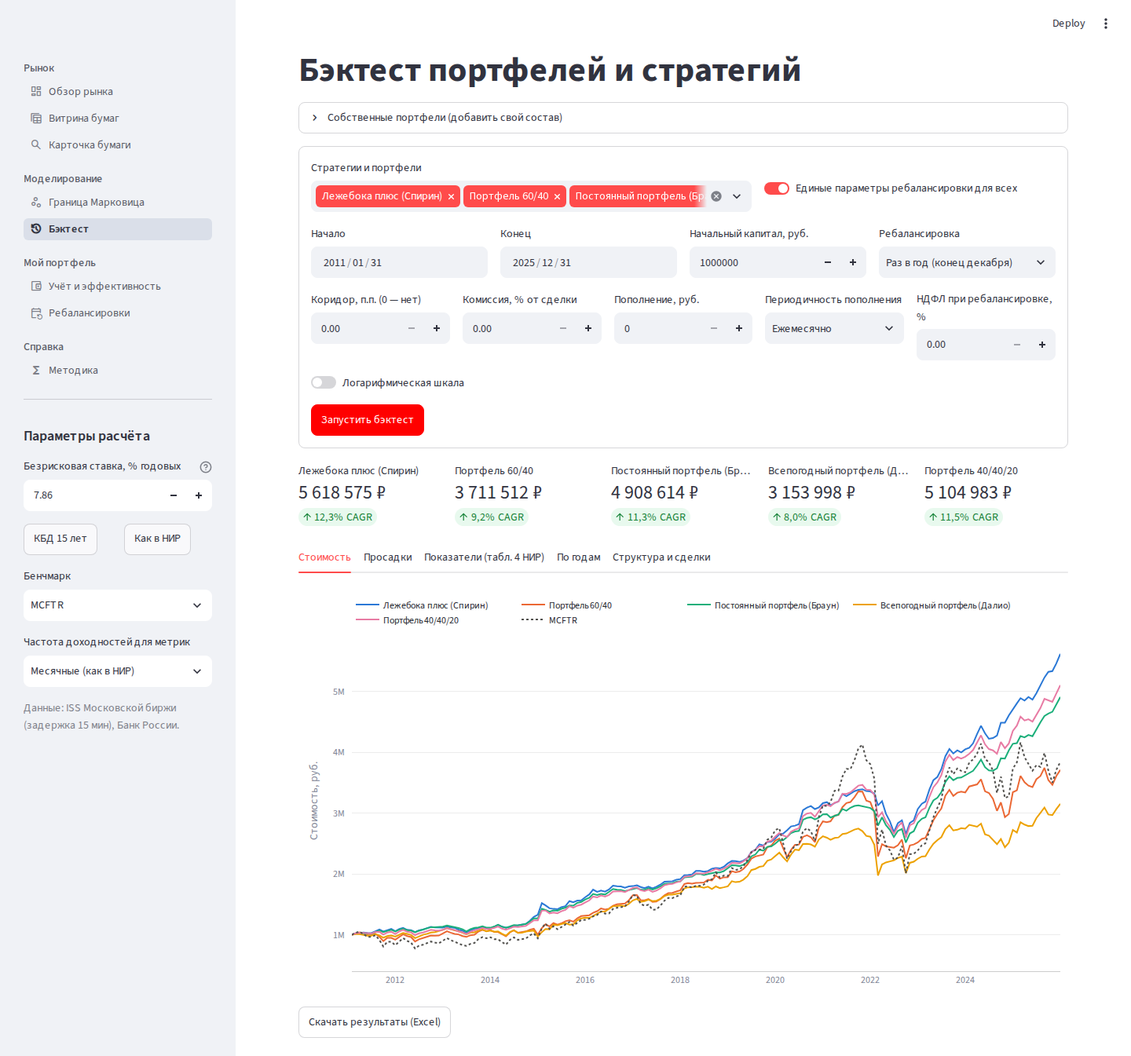
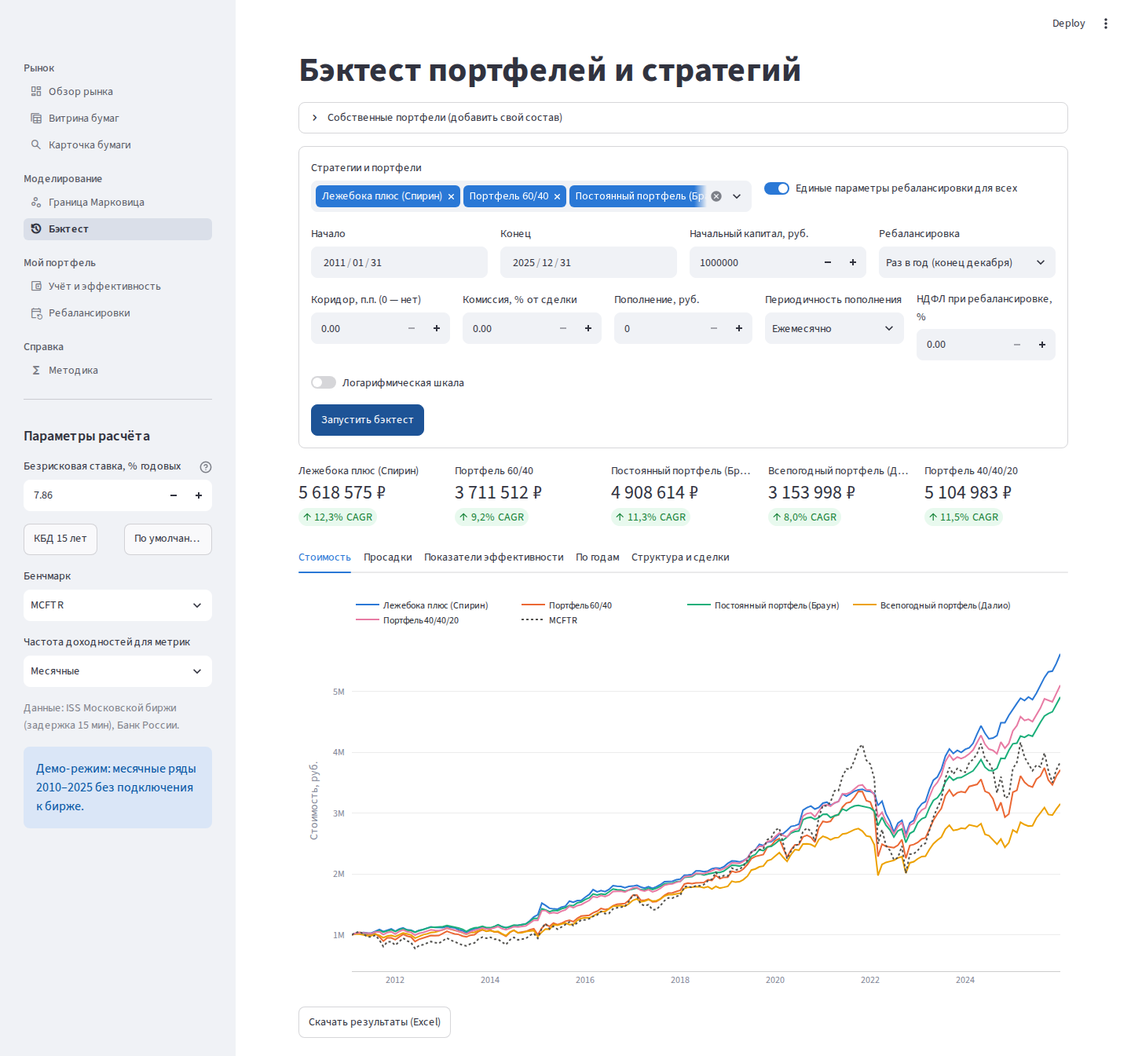
Убраны упоминания НИР из сайта, Streamlit, README и подписей стратегий
Только тексты: расчёты, значения по умолчанию и составы стратегий не менялись.
Скриншоты README пересняты.

Claude-Session: https://claude.ai/code/session_018HgTVDbdkFWWQpR7TqyJoV

diff --git a/web/lib/metrics.js b/web/lib/metrics.js
@@ -1,8 +1,7 @@
 /**
  * Коэффициенты эффективности — порт core/analytics/metrics.py с теми же конвенциями.
  *
- * Набор показателей — НИР «Сравнительный анализ пассивных стратегий управления инвестиционным
- * портфелем на российском финансовом рынке» (Рудницкий Д.С., 2026), п. 1.3, табл. 2 и табл. 4.
+ * Набор показателей — стандартные коэффициенты эффективности портфеля (классические формулы).
  * Формулы меняются только вместе с core/analytics/metrics.py и страницей «Методика» (инвариант 3).
  *
  * Соглашения (как в Python):
@@ -159,7 +158,7 @@ export function totalReturn(s) {
   return p[p.length - 1] / p[0] - 1;
 }
 
-/** CAGR = (P_T / P_0)^(1/лет) − 1, годы = календарные дни / 365,25 (НИР, табл. 2). */
+/** CAGR = (P_T / P_0)^(1/лет) − 1, годы = календарные дни / 365,25 (стандартное определение). */
 export function cagr(s) {
   const p = clean(s);
   const years = days(p.dates[0], p.dates[p.dates.length - 1]) / 365.25;
@@ -203,14 +202,14 @@ export function maxDrawdownInfo(s) {
   };
 }
 
-/** Кальмар K = CAGR / |MaxDD| (НИР, табл. 2). */
+/** Кальмар K = CAGR / |MaxDD| (стандартное определение). */
 export function calmar(s) {
   const mdd = maxDrawdown(s);
   return mdd < 0 ? cagr(s) / Math.abs(mdd) : NaN;
 }
 
 // ------------------------------------------------------------------ risk-adjusted
-/** Шарп S = (Rp − Rf) / σp, годовой: mean(r − rf) / σ(r − rf) · √n (НИР, табл. 2). */
+/** Шарп S = (Rp − Rf) / σp, годовой: mean(r − rf) / σ(r − rf) · √n (стандартное определение). */
 export function sharpe(r, rf = 0, n) {
   r = clean(r); n = nOf(r, n);
   const ex = excess(r, rf, n);
@@ -225,7 +224,7 @@ export function downsideDeviation(r, mar = 0, n) {
   return Math.sqrt(mean(ex.map((x) => Math.min(x, 0) ** 2))) * Math.sqrt(n);
 }
 
-/** Сортино So = (Rp − Rf) / σд (НИР, табл. 2; конвенция — как в metrics.py). */
+/** Сортино So = (Rp − Rf) / σд (конвенция — как в metrics.py). */
 export function sortino(r, rf = 0, n) {
   r = clean(r); n = nOf(r, n);
   const ex = excess(r, rf, n);
@@ -249,7 +248,7 @@ export function correlation(r, rm) {
   return c.xy / Math.sqrt(c.xx * c.yy);
 }
 
-/** Альфа Дженсена α = Rp − [Rf + β(Rm − Rf)], годовая (НИР, табл. 2). */
+/** Альфа Дженсена α = Rp − [Rf + β(Rm − Rf)], годовая (стандартное определение). */
 export function jensenAlpha(r, rm, rf = 0, n) {
   n = nOf(r, n);
   const j = joinInner(r, rm);
@@ -260,7 +259,7 @@ export function jensenAlpha(r, rm, rf = 0, n) {
   return a * n;
 }
 
-/** Трейнор T = (Rp − Rf)·n / β (НИР, табл. 2; конвенция — как в metrics.py). */
+/** Трейнор T = (Rp − Rf)·n / β (конвенция — как в metrics.py). */
 export function treynor(r, rm, rf = 0, n) {
   r = clean(r); n = nOf(r, n);
   const b = beta(r, rm);
@@ -290,7 +289,7 @@ export function modiglianiM2(r, rm, rf = 0, n) {
   return sharpe(r, rf, n) * volatility(clean(rm), n) + annualRf(rf);
 }
 
-/** Омега Ω = Σ max(r − L, 0) / Σ max(L − r, 0) (НИР, табл. 2). */
+/** Омега Ω = Σ max(r − L, 0) / Σ max(L − r, 0) (стандартное определение). */
 export function omega(r, threshold = 0, n) {
   r = clean(r); n = nOf(r, n);
   const ex = excess(r, threshold, n);
@@ -299,7 +298,7 @@ export function omega(r, threshold = 0, n) {
   return l > 0 ? g / l : NaN;
 }
 
-/** Швагер Sw = ΣProfit / Σ|Loss| по доходностям периодов (НИР, табл. 2). */
+/** Швагер Sw = ΣProfit / Σ|Loss| по доходностям периодов (стандартное определение). */
 export function schwager(r) {
   let g = 0, l = 0;
   for (const x of vals(clean(r))) { if (x > 0) g += x; else if (x < 0) l += -x; }
@@ -505,7 +504,7 @@ export function rebase(series, base = 100) {
 }
 
 /**
- * Сводная таблица как табл. 4 НИР (metrics_table): {rows: ключи по порядку LABELS_RU,
+ * Сводная таблица показателей (metrics_table): {rows: ключи по порядку LABELS_RU,
  * cols: имена рядов, data: {имя: MetricsReport}}.
  */
 export function metricsTable(seriesByName, benchmark = null, rf = 0, freq = 'M', opts = {}) {

diff --git a/web/index.html b/web/index.html
@@ -27,8 +27,8 @@
       <div class="field field-compact">
         <label for="g-rf">Безрисковая ставка, % год.</label>
         <input id="g-rf" name="rf" type="text" inputmode="decimal" autocomplete="off"
-               aria-describedby="g-rf-hint" title="15-летняя КБД на 11.01.2011, как в НИР">
-        <small id="g-rf-hint" class="hint">15-летняя КБД на 11.01.2011, как в НИР</small>
+               aria-describedby="g-rf-hint" title="По умолчанию — 15-летняя ставка КБД Мосбиржи на начало периода (11.01.2011)">
+        <small id="g-rf-hint" class="hint">По умолчанию — 15-летняя ставка КБД Мосбиржи на начало периода (11.01.2011)</small>
       </div>
       <div class="field field-compact">
         <label for="g-bench">Бенчмарк</label>
@@ -39,7 +39,7 @@
         <select id="g-freq" name="freq">
           <option value="D">Дневная</option>
           <option value="W">Недельная</option>
-          <option value="M">Месячная (как в НИР)</option>
+          <option value="M">Месячная</option>
         </select>
       </div>
     </form>
@@ -69,13 +69,13 @@
 <section class="panel" id="panel-backtest" role="tabpanel" aria-labelledby="tab-backtest" hidden>
   <div class="panel-head">
     <h2>Бэктест портфелей и стратегий</h2>
-    <p class="lead">По умолчанию — методика НИР: 1&nbsp;000&nbsp;000&nbsp;₽, 2011–2025, ежегодная ребалансировка
+    <p class="lead">По умолчанию: 1&nbsp;000&nbsp;000&nbsp;₽, 2011–2025, ежегодная ребалансировка
       в последний торговый день декабря, без комиссий и налогов, бенчмарк — MCFTR.</p>
   </div>
   <form id="bt-form" class="card form-card" novalidate>
     <div class="form-grid-2">
       <fieldset class="group">
-        <legend>Стратегии НИР</legend>
+        <legend>Классические пассивные стратегии</legend>
         <div id="bt-strategies" class="check-list"><p class="muted">Загрузка списка стратегий…</p></div>
       </fieldset>
       <fieldset class="group">
@@ -182,8 +182,8 @@
 <section class="panel" id="panel-method" role="tabpanel" aria-labelledby="tab-method" hidden>
   <div class="panel-head">
     <h2>Методика расчёта</h2>
-    <p class="lead">Показатели и допущения — по НИР «Сравнительный анализ пассивных стратегий управления
-      инвестиционным портфелем на российском финансовом рынке» (п.&nbsp;1.3, табл.&nbsp;2; п.&nbsp;2.1).</p>
+    <p class="lead">Формулы показателей эффективности — классические определения; ниже — обозначения,
+      формулы и допущения бэктеста.</p>
   </div>
 
   <div class="card prose">
@@ -268,7 +268,7 @@
       и максимального Шарпа совпадают с серверной версией с точностью до 0,1&nbsp;п.&nbsp;п.</p>
   </div>
 
-  <h3 class="section-title">Допущения бэктеста (НИР, п.&nbsp;2.1)</h3>
+  <h3 class="section-title">Допущения бэктеста</h3>
   <div class="card prose">
     <ul>
       <li>Начальный капитал 1&nbsp;000&nbsp;000&nbsp;₽, без довнесений (опционально — пополнения).</li>

diff --git a/web/lib/data.js b/web/lib/data.js
@@ -14,9 +14,9 @@ export const ISS_BASE = 'https://iss.moex.com/iss';
 export const DEFAULT_DATA_BASE = '../public/data/';
 export const DEFAULT_FIXTURES_BASE = '../tests/fixtures/';
 
-/** Каталог базовых активов — как core/data/universe.py: CATALOG (индексы-аналоги — НИР, табл. 3). */
+/** Каталог базовых активов — как core/data/universe.py: CATALOG. */
 export const CATALOG = [
-  { key: 'MCFTR', name: 'Индекс МосБиржи полной доходности брутто', assetClass: 'Акции', source: 'iss', etf: 'EQMX', note: 'Бенчмарк НИР' },
+  { key: 'MCFTR', name: 'Индекс МосБиржи полной доходности брутто', assetClass: 'Акции', source: 'iss', etf: 'EQMX', note: 'Бенчмарк по умолчанию' },
   { key: 'IMOEX', name: 'Индекс МосБиржи (ценовой)', assetClass: 'Акции', source: 'iss', etf: '', note: '' },
   { key: 'MEBCTR', name: 'Индекс голубых фишек полной доходности', assetClass: 'Акции', source: 'iss', etf: 'SBBC', note: '' },
   { key: 'IRDIVTR', name: 'Индекс дивидендных акций полной доходности', assetClass: 'Акции', source: 'iss', etf: 'DIVD', note: '' },
@@ -27,7 +27,7 @@ export const CATALOG = [
   { key: 'RUGBITR10Y', name: 'Гособлигации 10+ лет (TR)', assetClass: 'Облигации гос.', source: 'iss', etf: 'AMGB', note: '' },
   { key: 'RUCBITR', name: 'Корпоративные облигации (TR)', assetClass: 'Облигации корп.', source: 'iss', etf: 'OBLG', note: '' },
   { key: 'RUCBTRNS', name: 'Корпоративные облигации (TR, новая методика)', assetClass: 'Облигации корп.', source: 'iss', etf: 'OBLG', note: '' },
-  { key: 'CORP_CHAIN', name: 'Корп. облигации: RUCBITR → RUCBTRNS (склейка)', assetClass: 'Облигации корп.', source: 'chain', etf: 'OBLG', note: 'Как в НИР: пересчёт базы при смене методики' },
+  { key: 'CORP_CHAIN', name: 'Корп. облигации: RUCBITR → RUCBTRNS (склейка)', assetClass: 'Облигации корп.', source: 'chain', etf: 'OBLG', note: 'Пересчёт базы при смене методики индекса' },
   { key: 'GOLD_CBR', name: 'Золото, учётная цена ЦБ РФ', assetClass: 'Золото', source: 'cbr', etf: 'GOLD', note: '' },
   { key: 'GLDRUB_TOM', name: 'Золото, биржевой (руб./г)', assetClass: 'Золото', source: 'iss', etf: 'GOLD', note: '' },
   { key: 'RUONIA', name: 'Индекс денежного рынка (накопленная RUONIA)', assetClass: 'Денежный рынок', source: 'cbr', etf: 'LQDT', note: '' },
@@ -385,7 +385,7 @@ function monthEnd(m) {
 }
 
 /**
- * Демо-фрейм из месячных фикстур (universe._offline_frame / reproduce_nir.load_fixture):
+ * Демо-фрейм из месячных фикстур (как universe._offline_frame в Python):
  * iss_monthly.csv ⋈ cbr_monthly.csv ⋈ iss_monthly_extra.csv по столбцу m (inner join),
  * дата — последний день месяца, плюс CORP_CHAIN = chain(RUCBITR, RUCBTRNS, '2018-12-29').
  * @returns {Promise<Frame>}

diff --git a/web/lib/strategies.js b/web/lib/strategies.js
@@ -1,8 +1,8 @@
 /**
- * Преднастроенные пассивные стратегии (НИР, п. 1.2 и 2.1) — копия core/analytics/strategies.py.
+ * Преднастроенные пассивные стратегии — копия core/analytics/strategies.py.
  * Меняются только вместе с Python-версией.
  *
- * Замена классов активов индексами-аналогами (НИР, табл. 3):
+ * Замена классов активов индексами-аналогами:
  *   акции -> MCFTR; корп. облигации -> CORP_CHAIN (RUCBITR + RUCBTRNS);
  *   гос. облигации -> RGBITR / RUGBITR1Y / RUGBITR5+ / RUGBITR10Y;
  *   золото -> GOLD_CBR; денежный рынок -> RUONIA.
@@ -28,13 +28,12 @@ export const STRATEGIES = {
     weights: { MCFTR: 0.30, RUGBITR10Y: 0.40, 'RUGBITR5+': 0.15, GOLD_CBR: 0.075, MOEXEU: 0.075 },
     rebalance: 'A',
     note: '30% акции / 40% длинные / 15% среднесрочные облигации / 7,5% золото / '
-      + '7,5% сырьё -> индекс электроэнергетики MOEXEU (как в НИР, табл. 3)',
+      + '7,5% сырьё -> индекс электроэнергетики MOEXEU (нет рублёвого сырьевого индекса)',
   },
   'Портфель 40/40/20': {
     weights: { MCFTR: 0.40, CORP_CHAIN: 0.40, GOLD_CBR: 0.20 },
     rebalance: 'A',
-    note: '40% акции (рост + дивиденды -> MCFTR) / 40% облигации -> корп. облигации / 20% золото. '
-      + 'Ближайшее к табл. 4 НИР соответствие; точный состав подлежит уточнению',
+    note: '40% акции (рост + дивиденды -> MCFTR) / 40% облигации -> корп. облигации / 20% золото',
   },
   'Завещание Баффетта 90/10': {
     weights: { MCFTR: 0.90, RUGBITR1Y: 0.10 },

diff --git a/web/js/tab-backtest.js b/web/js/tab-backtest.js
@@ -1,4 +1,4 @@
-// Вкладка «Бэктест»: стратегии НИР и свой портфель. Все расчёты — web/lib (runBacktest, computeAll…).
+// Вкладка «Бэктест»: классические пассивные стратегии и свой портфель. Все расчёты — web/lib (runBacktest, computeAll…).
 
 import { colorOf, destroyChart, lineChart } from "./charts.js";
 import { $, downloadCsv, errorNotice, h, nextFrame, notice, tableWrap, withBusy } from "./dom.js";
@@ -370,7 +370,7 @@ function render() {
     yTitle: "Просадка, %", yFormat: "pct",
   });
 
-  // --- показатели (табл. 4 НИР)
+  // --- показатели эффективности
   const reports = {};
   for (const n of names) reports[n] = E.metrics.computeAll(results[n].equity, bench, g.rf, g.freq);
   if (bench) reports[benchName] = E.metrics.computeAll(bench, bench, g.rf, g.freq);
@@ -383,7 +383,7 @@ function render() {
   out.append(h("section", { class: "card" },
     h("div", { class: "chart-head" },
       h("div", {},
-        h("h3", { class: "card-title" }, "Показатели эффективности (как табл. 4 НИР)"),
+        h("h3", { class: "card-title" }, "Показатели эффективности"),
         h("p", { class: "card-sub" },
           `Rf = ${fmtPct(g.rf, 2)}, доходности ${FREQ_LABELS[g.freq]}, бенчмарк ${benchName}.`)),
       h("div", { class: "toolbar" },

diff --git a/web/lib/backtest.js b/web/lib/backtest.js
@@ -1,7 +1,7 @@
 /**
  * Движок бэктеста портфеля с ребалансировкой — порт core/analytics/backtest.py.
  *
- * Методика по умолчанию повторяет НИР (п. 2.1): начальный капитал 1 000 000 руб., без довнесений;
+ * Методика бэктеста платформы по умолчанию: начальный капитал 1 000 000 руб., без довнесений;
  * ребалансировка раз в год в последний торговый день декабря; без комиссий и налогов.
  * Дополнительно: частота ребалансировки (нет / месяц / квартал / полгода / год), коридор по
  * отклонению долей, комиссия, регулярные пополнения (распределяются к недостающим до цели долям),

diff --git a/pages/0_Обзор.py b/pages/0_Обзор.py
@@ -12,8 +12,7 @@ from ui.common import base_layout, fmt_pct, line_chart, load_series, page_setup,
 page_setup("ИнвестАналитика — обзор рынка", "📊")
 
 st.caption("Моделирование портфелей, граница Марковица, бэктесты, учёт портфеля и "
-           "витрина данных по бумагам Московской биржи. Методика оценки эффективности — "
-           "по НИР «Сравнительный анализ пассивных стратегий управления инвестиционным портфелем».")
+           "витрина данных по бумагам Московской биржи.")
 
 KEY_INDICES = {"IMOEX": "Индекс МосБиржи", "MCFTR": "МосБиржа полной доходности",
                "RGBITR": "Гособлигации TR", "RUCBTRNS": "Корп. облигации TR",
@@ -69,7 +68,7 @@ st.markdown("""
 1. **Витрина** — акции, фонды (паи), облигации, металлы: котировки, доходности, волатильность, Шарп, бета, мультипликаторы.
 2. **Карточка бумаги** — график, просадки, скользящие метрики, дивиденды/купоны, полный набор коэффициентов.
 3. **Граница Марковица** — облако портфелей, эффективная граница, мин. дисперсия, касательный портфель.
-4. **Бэктест** — стратегии НИР и собственные портфели, ребалансировка, комиссии, пополнения, налог.
+4. **Бэктест** — классические пассивные стратегии и собственные портфели, ребалансировка, комиссии, пополнения, налог.
 5. **Мой портфель** — учёт сделок, оценка позиций, доходность TWR/XIRR, сравнение с бенчмарком и стратегиями.
 6. **Ребалансировки** — календарь, отклонение от целевых долей, заявки с округлением до лотов, экспорт в календарь.
 7. **Методика** — формулы коэффициентов.

diff --git a/core/analytics/strategies.py b/core/analytics/strategies.py
@@ -1,7 +1,7 @@
 """
-Преднастроенные пассивные стратегии (НИР, п. 1.2 и 2.1) в российской адаптации.
+Преднастроенные пассивные стратегии в российской адаптации.
 
-Замена классов активов индексами-аналогами (НИР, табл. 3):
+Замена классов активов индексами-аналогами:
   акции            -> MCFTR
   корп. облигации  -> RUCBITR + RUCBTRNS (склейка, CORP_CHAIN)
   гос. облигации   -> RGBITR / RUGBITR1Y / RUGBITR5+ / RUGBITR10Y
@@ -9,8 +9,7 @@
   денежный рынок   -> индекс RUONIA
 Подклассы (рост/дивиденды) заменяются единым индексом с равными долями.
 
-Веса — редактируемые шаблоны; уточнение соответствия каждой стратегии
-расчётам табл. 4 НИР — см. README, раздел «Открытые вопросы».
+Веса — редактируемые шаблоны по умолчанию.
 """
 from __future__ import annotations
 
@@ -35,13 +34,12 @@ STRATEGIES: dict[str, dict] = {
                     "MOEXEU": 0.075},
         "rebalance": "A",
         "note": "30% акции / 40% длинные / 15% среднесрочные облигации / 7,5% золото / "
-                "7,5% сырьё -> индекс электроэнергетики MOEXEU (как в НИР, табл. 3)",
+                "7,5% сырьё -> индекс электроэнергетики MOEXEU (нет рублёвого сырьевого индекса)",
     },
     "Портфель 40/40/20": {
         "weights": {"MCFTR": 0.40, "CORP_CHAIN": 0.40, "GOLD_CBR": 0.20},
         "rebalance": "A",
-        "note": "40% акции (рост + дивиденды -> MCFTR) / 40% облигации -> корп. облигации / 20% золото. "
-                "Ближайшее к табл. 4 НИР соответствие; точный состав подлежит уточнению",
+        "note": "40% акции (рост + дивиденды -> MCFTR) / 40% облигации -> корп. облигации / 20% золото",
     },
     "Завещание Баффетта 90/10": {
         "weights": {"MCFTR": 0.90, "RUGBITR1Y": 0.10},

diff --git a/core/data/universe.py b/core/data/universe.py
@@ -3,7 +3,6 @@
 
 Любой ключ — это либо тикер ISS (акция, пай, облигация, металл, индекс),
 либо специальный ряд (золото ЦБ, индекс RUONIA, склейка индексов).
-Индексы-аналоги ПИФов — из табл. 3 НИР.
 """
 from __future__ import annotations
 
@@ -28,9 +27,9 @@ class AssetSpec:
     note: str = ""
 
 
-# Индексы-аналоги ПИФов (НИР, табл. 3) и прочие ключевые ряды
+# Индексы-аналоги ПИФов и прочие ключевые ряды
 CATALOG: dict[str, AssetSpec] = {s.key: s for s in [
-    AssetSpec("MCFTR", "Индекс МосБиржи полной доходности брутто", "Акции", "iss", "EQMX", "Бенчмарк НИР"),
+    AssetSpec("MCFTR", "Индекс МосБиржи полной доходности брутто", "Акции", "iss", "EQMX", "Бенчмарк по умолчанию"),
     AssetSpec("IMOEX", "Индекс МосБиржи (ценовой)", "Акции", "iss", "", ""),
     AssetSpec("MEBCTR", "Индекс голубых фишек полной доходности", "Акции", "iss", "SBBC"),
     AssetSpec("IRDIVTR", "Индекс дивидендных акций полной доходности", "Акции", "iss", "DIVD"),
@@ -42,7 +41,7 @@ CATALOG: dict[str, AssetSpec] = {s.key: s for s in [
     AssetSpec("RUCBITR", "Корпоративные облигации (TR)", "Облигации корп.", "iss", "OBLG"),
     AssetSpec("RUCBTRNS", "Корпоративные облигации (TR, новая методика)", "Облигации корп.", "iss", "OBLG"),
     AssetSpec("CORP_CHAIN", "Корп. облигации: RUCBITR → RUCBTRNS (склейка)", "Облигации корп.", "chain", "OBLG",
-              "Как в НИР: пересчёт базы при смене методики"),
+              "Пересчёт базы при смене методики индекса"),
     AssetSpec("GOLD_CBR", "Золото, учётная цена ЦБ РФ", "Золото", "cbr", "GOLD"),
     AssetSpec("GLDRUB_TOM", "Золото, биржевой (руб./г)", "Золото", "iss", "GOLD"),
     AssetSpec("RUONIA", "Индекс денежного рынка (накопленная RUONIA)", "Денежный рынок", "cbr", "LQDT"),

diff --git a/core/analytics/metrics.py b/core/analytics/metrics.py
@@ -1,9 +1,7 @@
 """
 Коэффициенты эффективности инвестиционных портфелей и отдельных бумаг.
 
-Набор показателей взят из НИР «Сравнительный анализ пассивных стратегий
-управления инвестиционным портфелем на российском финансовом рынке»
-(Рудницкий Д.С., 2026), п. 1.3, табл. 2 и табл. 4:
+Набор показателей — стандартные коэффициенты эффективности (классические формулы):
 
     CAGR, накопленная доходность, волатильность, максимальная просадка,
     Шарп, Сортино, Трейнор, Кальмар, M² (Модильяни), бета, альфа Дженсена,
@@ -322,7 +320,7 @@ def compute_all(prices: pd.Series, benchmark: Optional[pd.Series] = None,
     prices     — ряд цен/стоимости портфеля (любая исходная частота);
     benchmark  — ряд цен бенчмарка (например, MCFTR);
     rf         — безрисковая ставка (годовая) или ряд ставок;
-    freq       — частота расчёта доходностей: 'D','W','M','Q' (в НИР — 'M');
+    freq       — частота расчёта доходностей: 'D','W','M','Q' (по умолчанию — 'M');
     return_method — 'arith' (среднее × n) или 'cagr' для числителя Шарпа/Трейнора.
     """
     p = resample_prices(prices.dropna(), freq)
@@ -360,7 +358,7 @@ def compute_all(prices: pd.Series, benchmark: Optional[pd.Series] = None,
 
 def metrics_table(series: dict[str, pd.Series], benchmark: Optional[pd.Series] = None,
                   rf: RateLike = 0.0, freq: str = "M", return_method: str = "arith") -> pd.DataFrame:
-    """Сводная таблица (как табл. 4 НИР): строки — показатели, столбцы — портфели."""
+    """Сводная таблица показателей: строки — показатели, столбцы — портфели."""
     cols = {name: compute_all(s, benchmark, rf, freq, return_method).to_dict()
             for name, s in series.items()}
     df = pd.DataFrame(cols)

diff --git a/pages/7_Методика.py b/pages/7_Методика.py
@@ -7,8 +7,8 @@ from ui.common import page_setup
 page_setup("Методика расчёта", "📐")
 
 st.markdown("""
-Показатели и допущения — по НИР «Сравнительный анализ пассивных стратегий управления
-инвестиционным портфелем на российском финансовом рынке» (п. 1.3, табл. 2; п. 2.1).
+Формулы показателей эффективности — классические определения; ниже — обозначения,
+формулы и допущения бэктеста.
 
 **Обозначения:** $R_p$ — доходность портфеля, $R_f$ — безрисковая ставка, $R_m$ — доходность рынка,
 $\\sigma_p$ — стандартное отклонение портфеля, $\\sigma_d$ — стандартное отклонение отрицательных
@@ -51,7 +51,7 @@ $\min_w\; w^\top\Sigma w$ при $w^\top\mu = r^*$, $\sum w_i = 1$, $w_{min}\le 
 оценки по историческим доходностям выбранной частоты; опционально — сжатие ковариации Ледуа–Вольфа.
 """)
 
-st.subheader("Допущения бэктеста (НИР, п. 2.1)")
+st.subheader("Допущения бэктеста")
 st.markdown("""
 * Начальный капитал 1 000 000 руб., без довнесений (опционально — пополнения).
 * Ребалансировка раз в год в последний торговый день декабря (опционально — месяц / квартал / полгода, коридор).
